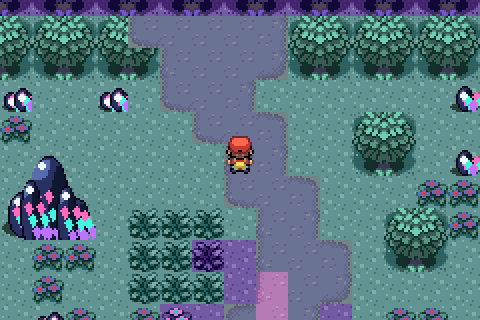
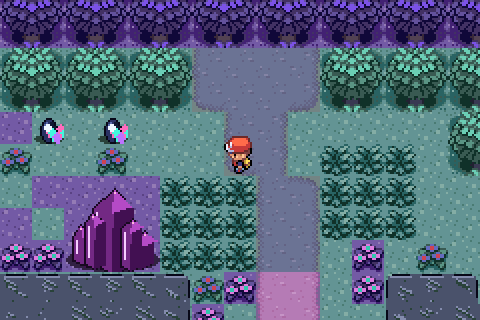
Route 1 v4: shorter map (26x38), serpentine ridges force a zigzag
Claude-Session: https://claude.ai/code/session_01GQJ6VBZbBVtTh4mURN6n2L

diff --git a/docs/topaze/route1_gradient.py b/docs/topaze/route1_gradient.py
@@ -84,7 +84,7 @@ def variant(m, st, special=None):
     SEC_ENT.append(out); SEC_ATT.append(PATT32[m]); VAR[key] = 640 + len(SEC_ENT) - 1
     return VAR[key]
 # ------------------------------------------------------------------ carte
-W, H = 26, 54
+W, H = 26, 38
 GRASS_M, FLOWER_M, TALL_M = 1, 4, 13
 TREE = [[468, 469], [476, 477]]
 G = {}; OCC = {}; STG = {}
@@ -122,15 +122,20 @@ for y in range(2, H - 2, 2):
     tree(0, y); tree(W - 2, y)
 # ---- chemin : meandre continu (2 cases de large au minimum), rejoint les portes sud (x 12..13) et nord (x 14..17)
 PATH = set()
-def xc(y):
-    d = H - 1 - y
-    w = min(1.0, min(d, y) / 9.0)                                  # pres des portes le chemin va droit
-    base = 13 + 5.5 * math.sin(d / 6.5) + 1.8 * math.sin(d / 3.4 + 0.8)
-    return int(round(13 * (1 - w) + base * w)) if d > y else int(round(14 * (1 - w) + base * w))
-X = {y: max(4, min(W - 6, xc(y))) for y in range(H)}
-for y in range(H):
-    a = X[y]; b = X[min(H - 1, y + 1)]
-    for x in range(min(a, b), max(a, b) + 2): PATH.add((x, y))
+# serpentin : 4 crêtes de roche traversent presque toute la largeur, chacune avec une brèche (côtés alternés) -> il faut zigzaguer
+RIDGE_Y = [8, 15, 22, 29]
+GAPS = [(14, 19), (4, 9), (16, 22), (3, 8)]           # brèches du nord au sud
+WAY = [(12, H - 3), (12, H - 7)]
+for (ry, (g0, g1)) in reversed(list(zip(RIDGE_Y, GAPS))): WAY += [((g0 + g1) // 2, ry + 3), ((g0 + g1) // 2, ry - 3)]
+WAY += [(15, 3), (15, 1)]
+def seg(a, b):
+    (x0, y0), (x1, y1) = a, b
+    n = max(abs(x1 - x0), abs(y1 - y0))
+    for k in range(n + 1):
+        t = k / max(1, n); x = x0 + (x1 - x0) * t; y = y0 + (y1 - y0) * t
+        for i in (0, 1): PATH.add((int(round(x)) + i, int(round(y))))
+        PATH.add((int(round(x)) + 1, int(round(y)) + 1))
+for a_, b_ in zip(WAY, WAY[1:]): seg(a_, b_)
 PATH |= {(12, H - 1), (13, H - 1), (12, H - 2), (13, H - 2), (14, 0), (15, 0), (16, 0), (17, 0), (14, 1), (15, 1), (16, 1), (17, 1)}
 def path_id(x, y):
     N = (x, y - 1) in PATH or y == 0; S = (x, y + 1) in PATH or y == H - 1; Wn = (x - 1, y) in PATH; E = (x + 1, y) in PATH
@@ -155,7 +160,7 @@ for j in range(3):
 def dil(cells, r):
     return {(x + i, y + j) for (x, y) in cells for i in range(-r, r + 1) for j in range(-r, r + 1)}
 CLEAR = dil(PATH, 1)
-SIGN = (11, 51); NPC = {'clerk': (14, 50), 'boy': (max(x for (x, y) in PATH if y == 29) + 3, 29)}
+SIGN = (10, H - 4); NPC = {'clerk': (16, H - 4), 'boy': (21, 12)}
 RES = dil([SIGN] + list(NPC.values()), 1)
 RIDGE = set()
 def ridge_ok(c):
@@ -176,19 +181,23 @@ def grow(seed, n):
         cs = sorted(cand); w = [max(0.05, cand[c]) for c in cs]
         cells.add(rnd.choices(cs, w)[0])
     return cells
-BLOB = {}; made = 0; tries = 0
-while made < 11 and tries < 800:
-    tries += 1
-    side = rnd.random()
-    sx = rnd.randint(3, 6) if side < 0.35 else (rnd.randint(W - 7, W - 4) if side < 0.7 else rnd.randint(3, W - 4))     # beaucoup d'amas s'adossent aux bords (falaises naturelles)
-    seed = (sx, 6 + made * 4 + rnd.randint(-1, 1))
-    if not ridge_ok(seed): continue
-    cells = grow(seed, rnd.randint(14, 34))
-    if len(cells) < 10: continue
-    cy = sum(c[1] for c in cells) / len(cells); cx = sum(c[0] for c in cells) / len(cells)
+BLOB = {}
+def wob(seed_):
+    r = random.Random(seed_); v = 0; out = []
+    for x in range(W):
+        v = max(-1, min(1, v + r.choice((-1, 0, 0, 1)))); out.append(v)
+    return out
+for k, (ry, (g0, g1)) in enumerate(zip(RIDGE_Y, GAPS)):
+    wb = wob(77 + k); cells = set()
+    for x in range(2, W - 2):
+        if g0 <= x <= g1: continue
+        edge = min(abs(x - g0), abs(x - g1))
+        th = 3 + wb[x] + (0 if edge > 1 else -1)                         # les bouts s'amincissent vers la brèche
+        for j in range(th): cells.add((x, ry - 1 + j + (wb[(x * 3) % W] if edge > 2 else 0)))
+    cells = {c for c in cells if c not in OCC and c not in CLEAR}
+    cx = sum(c[0] for c in cells) / len(cells); cy = ry
     for c in cells: RIDGE.add(c); OCC[c] = 'roche'; BLOB[c] = (cx, cy)
-    made += 1
-print('amas de roche', made, 'cases', len(RIDGE))
+print('crêtes', len(RIDGE))
 LEDGES = []
 # ---- herbes hautes (rencontres) : rectangles libres pres du chemin
 TALL = []

diff --git a/tools/topaze/emu/t_route1b.py b/tools/topaze/emu/t_route1b.py
@@ -9,8 +9,8 @@ P.B |= {(x, y) for (x0, y0, x1, y1) in info['tall'] for y in range(y0, y1 + 1) f
 P.B |= {tuple(c) for c in info['ledges']} | {tuple(c) for c in info['npc'].values()}
 start('r1_0')
 sh(['key UP 18', 'run 20'])      # on quitte la case-warp d'arrivee avant de planifier
-P.B |= {(12, 53), (13, 53)}
-for tgt in [tuple(next(c for c in info['path'] if c[1] == y and (c[0], y) not in P.B)) for y in (50, 40, 30, 20, 10, 4)]:
+P.B |= {(12, 37), (13, 37)}
+for tgt in [tuple(next(c for c in info['path'] if c[1] == y and (c[0], y) not in P.B)) for y in (33, 27, 20, 13, 6, 3)]:
     print(tgt, goto(tgt, maxit=30))
 print(sh(['shot r1_mid.ppm']))
 print('nord ->', goto((15, 1), maxit=20), sh(['key UP 40', 'run 100', 'shot r1_op.ppm']))

diff --git a/docs/technique/ARCHITECTURE.md b/docs/technique/ARCHITECTURE.md
@@ -48,7 +48,7 @@ Le dépôt est celui de pokefirered ; seuls les éléments modifiés pour Topaze
 | **Grenalux v5 – grande ville 44×36 (référence v5)** | `docs/topaze/grenalux_big.py` (ordre : `import_emerald_tiles.py` → `grenat_palette.py` → `grenalux_big.py`) : avenue nord-sud, grande rue est-ouest, place centrale avec îlot et monument de cristal, bassin sud relié à la route 21, 4 bâtiments utiles (joueur (8,9), ranch (36,8), labo (35,21), musée (8,21)) et 6 maisons décoratives, potager, ~34 arbres, cristaux. Connexions : route 1 décalée de 10 (ouverture en x=22..23), route 21 décalée de 14 (eau en x=21..23). `heal_locations.json` : respawn (8,10). **La v4 (24×20) reste la référence** : branche `grenalux-v4-reference` et `docs/topaze/reference/` (carte, map.json, scripts, image) ; ses scripts (`grenalux_emerald.py`, `grenalux_crystals.py` en `__main__`) restent exécutables mais il faut alors remettre les dimensions 24×20 dans `layouts.json` et `map.json`. |
 | **Grenalux v6 – ville vivable (version actuelle)** | `docs/topaze/grenalux_town.py` puis `grenalux_events.py` (ordre : `import_emerald_tiles.py` → `grenat_palette.py` → `git checkout fa8f0d0 -- data/layouts/layouts.json` → `grenalux_town.py` → `grenalux_events.py`). Plan d'occupation avec assertions (aucun chevauchement, portes et PNJ atteignables), toits en variantes de palette (11 ardoise-violet, 12 ocre), lampadaires de cristal, cristaux gardiens de l'avenue, carrière de blocs + entrée de mine à l'est, bassin avec promenade, potager, bosquets, chemins de portes par BFS, 6 PNJ d'ambiance (textes provisoires). **Ranch** : maison voisine remplacée par un **jardin de baies décoratif** (parcelle clôturée, buissons à baies non récoltables, jardinière qui l'explique) ; panneau du ranch en (37,9). Clôtures, foin, abreuvoir, buissons, grange et silo (grand ranch) sont dessinés par code dans `grenalux_crystals.py` (pas de moulin/grange dans les tilesets officiels FR/Émeraude). **Grand ranch** : carte `PalletTown_Ranch` (32×24, groupe 4 n°5, layout `LAYOUT_PALLET_TOWN_RANCH`), généré par la 2ᵉ partie de `grenalux_town.py` puis `grenalux_ranch_events.py` ; accessible par l'ouverture du cadre d'arbres à l'est de Grenalux (x=42..43, y=6..7, connexion « droite » décalage 0) : écurie, grange + silo, 3 enclos, cristaux, ouvriers, fillette, animaux. **Avant/après l'attaque** (`FLAG_GRENALUX_ONYBRIS_STRIKE`) : clôture est de l'enclos B intacte puis ouverte (`setmetatile` au chargement), Doduo et 2 Nidoran (Pokémon pisteurs) présents puis disparus, ouvrier au pied de la clôture coupée (`FLAG_HIDE_RANCH_CUT_HAND`) visible seulement après, dialogues des ouvriers changés. Mêmes portes/coordonnées d'événements que la v5 sauf panneau du labo (36,22). **Sorties de ville** : nord (Route 1) et sud (Route 21, par l'eau) sont des **warps** (pas des connexions : mélange de tilesets Émeraude/FR = tuiles brouillées) ; un warp s'active sur case ordinaire dans PalletTown/Route1/Route21_North grâce à `IsTopazeStepWarpMap()` (`src/field_control_avatar.c`). Seule la connexion est (ranch) subsiste, même tileset. Les versions v4 (24×20) et v5 (44×36) restent archivées : branches `grenalux-v4-reference`, `grenalux-v5-reference` et `docs/topaze/reference/`. |
 | **Opanihrum v1 – la cité de l'Opale noire (arène d'Hepha, Acier)** | Ville 42×40 (slot de Jadielle, `LAYOUT_VIRIDIAN_CITY`) construite avec les décors de **Rustboro** (pierre grise d'Émeraude) recolorés en ardoise bleu-nuit (« plus il est sombre, plus il cache de couleurs », cf. dialogue d'Hepha) + art procédural : monument d'opale noire à reflets irisés, enclumes, lingots. `docs/topaze/opanihrum_town.py` (génère carte + tilesets `general_opal` / `rustboro_opal`, **secondaire compacté** : seules les métatuiles utilisées sont gardées, 161+49 tuiles sur 384) puis `opanihrum_events.py`. Rendu d'aide au choix des morceaux : `docs/topaze/emrender.py` (`../pokeemerald` doit avoir `data/layouts/RustboroCity` en sparse-checkout). Bâtiments : **fonderie** (10×9, arène, 2 portes en (8,11)/(9,11), verrouillée par `VAR_MAP_SCENE_VIRIDIAN_CITY_GYM_DOOR`), école, maison, Centre (16,20), Boutique (27,20) + 6 bâtiments décoratifs, fontaine, parc, parterres, lampadaires, grille de fer. Vieil homme (barrage/tutoriel de capture) déplacé à la **porte nord** (20,2), déclencheur (21,2). Sorties = **warps** : nord Route 2 (`x=7..11,y=79`), sud Route 1 (`x=10..13,y=0`), ouest Route 22 (`x=47,y=6..9`) ; `IsTopazeStepWarpMap()` étendu à `LAYOUT_VIRIDIAN_CITY`/`ROUTE2`/`ROUTE22`. Respawn du Centre mis à jour (`heal_locations.h`). Ordre : `opanihrum_town.py` → `opanihrum_events.py` → supprimer `build/firered/data/maps.o` → `make`. Rendu : `docs/topaze/reference/opanihrum_v1.png`. |
-| **Route 1 « route du dégradé » (carte entièrement nouvelle 26×54)** | `docs/topaze/route1_gradient.py` puis `route1_events.py`. Les couleurs glissent du **grenat** (sud, Grenalux) au **violet** puis à l'**opale noire** (nord, Opanihrum) : 3 étages de palettes (mélange en teinte HLS par le violet) ; les métatuiles d'Émeraude (herbe, arbres, fleurs, herbe haute, sable) sont recopiées dans le tileset secondaire `gradient_road` avec d'autres numéros de palette (emplacements : étage 0 = primaire 0,2,5 ; étage 1 = primaire 1,3,4 ; étage 2 = secondaire 7,8,9 ; art 6/10/11 ; panneau 12), l'étage de chaque case suit le gradient sud→nord + un champ lisse + un grain (fondu irrégulier). Chemin sinueux, 10 zones d'herbes hautes (rencontres), cristaux épars (prismes de grenat → dômes d'opale) et « pierre du dégradé » (3×3). Warps : sud (12..13,53) ↔ Grenalux, nord (14..17,0) ↔ Opanihrum. Le garçon et le panneau ont de nouveaux textes (plus de corniches). Primaire `general_gradient`. Rendu : `docs/topaze/reference/route1_gradient_v1.png`. **v3 (actuelle)** : retour de l'utilisateur sur la v2 « trop brute, pas assez naturel, les murs ne se touchent pas » → chemin en méandre continu (`xc(y)` + remplissage ligne à ligne), plus de monticules ni de corniches ; 11 **plateaux rocheux organiques** (blobs de croissance compacte) dessinés en **autotile** (masque des 4 voisins, 3 variantes, teinte selon l'étage au centroïde) donc les murs se touchent et forment des crêtes continues ; pierre du dégradé et panneau (11,51) conservés. Rendu : `docs/topaze/reference/route1_gradient_v3.png`. **v2 (archivée dans le rendu `route1_gradient_v2.png`)** : chemin beaucoup plus sinueux (18 points, segments courts), 5 **murs de collines** (monticules de roche 2×2, métatuiles 131/132/139/140, palette de roche partagée en 12) qui ne laissent que le chemin, **corniches** (ledges, saut vers le sud) en terrasses, panneau dessiné en art ; herbes hautes tirées au hasard près du chemin. La v1 (chemin presque droit) est conservée : `docs/topaze/reference/route1_gradient_v1.{png,py}` et branche `route1-gradient-v1-reference`. |
+| **Route 1 « route du dégradé » (carte entièrement nouvelle 26×54)** | `docs/topaze/route1_gradient.py` puis `route1_events.py`. Les couleurs glissent du **grenat** (sud, Grenalux) au **violet** puis à l'**opale noire** (nord, Opanihrum) : 3 étages de palettes (mélange en teinte HLS par le violet) ; les métatuiles d'Émeraude (herbe, arbres, fleurs, herbe haute, sable) sont recopiées dans le tileset secondaire `gradient_road` avec d'autres numéros de palette (emplacements : étage 0 = primaire 0,2,5 ; étage 1 = primaire 1,3,4 ; étage 2 = secondaire 7,8,9 ; art 6/10/11 ; panneau 12), l'étage de chaque case suit le gradient sud→nord + un champ lisse + un grain (fondu irrégulier). Chemin sinueux, 10 zones d'herbes hautes (rencontres), cristaux épars (prismes de grenat → dômes d'opale) et « pierre du dégradé » (3×3). Warps : sud (12..13,53) ↔ Grenalux, nord (14..17,0) ↔ Opanihrum. Le garçon et le panneau ont de nouveaux textes (plus de corniches). Primaire `general_gradient`. Rendu : `docs/topaze/reference/route1_gradient_v1.png`. **v4 (actuelle)** : retour « trop longue, le joueur va tout droit » → carte raccourcie **26×38** et chemin **obligatoirement en zigzag** : 4 crêtes de roche quasi pleine largeur (bords ondulés) avec chacune une brèche, côtés alternés (`RIDGE_Y`, `GAPS` dans `route1_gradient.py`) ; warps sud (12..13,37), nord (14..17,0). Rendu : `route1_gradient_v4.png`. **v3 (archivée, `route1_gradient_v3.png`)** : retour de l'utilisateur sur la v2 « trop brute, pas assez naturel, les murs ne se touchent pas » → chemin en méandre continu (`xc(y)` + remplissage ligne à ligne), plus de monticules ni de corniches ; 11 **plateaux rocheux organiques** (blobs de croissance compacte) dessinés en **autotile** (masque des 4 voisins, 3 variantes, teinte selon l'étage au centroïde) donc les murs se touchent et forment des crêtes continues ; pierre du dégradé et panneau (11,51) conservés. Rendu : `docs/topaze/reference/route1_gradient_v3.png`. **v2 (archivée dans le rendu `route1_gradient_v2.png`)** : chemin beaucoup plus sinueux (18 points, segments courts), 5 **murs de collines** (monticules de roche 2×2, métatuiles 131/132/139/140, palette de roche partagée en 12) qui ne laissent que le chemin, **corniches** (ledges, saut vers le sud) en terrasses, panneau dessiné en art ; herbes hautes tirées au hasard près du chemin. La v1 (chemin presque droit) est conservée : `docs/topaze/reference/route1_gradient_v1.{png,py}` et branche `route1-gradient-v1-reference`. |
 | Ville de départ Grenalux | `PalletTown` (`text.inc`), `region_map_entry_strings.h` |
 | Rival par défaut ZEPHYR | `data/text/new_game_intro.inc` |
 | Team Onybris | ~58 fichiers (classe de dresseur + dialogues), remplacement de « TEAM ROCKET » / « ROCKET » dans les `.string` uniquement |
